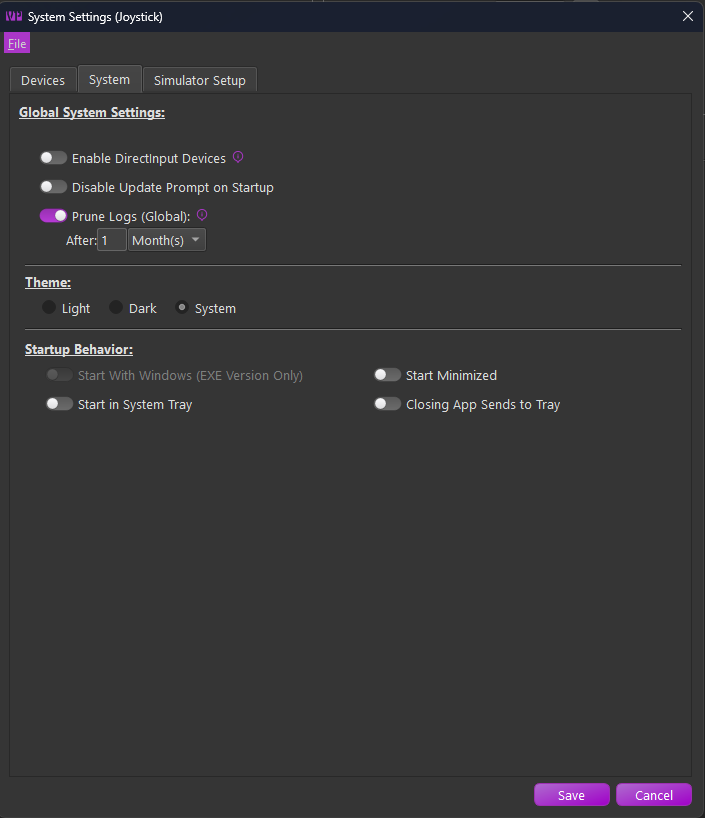
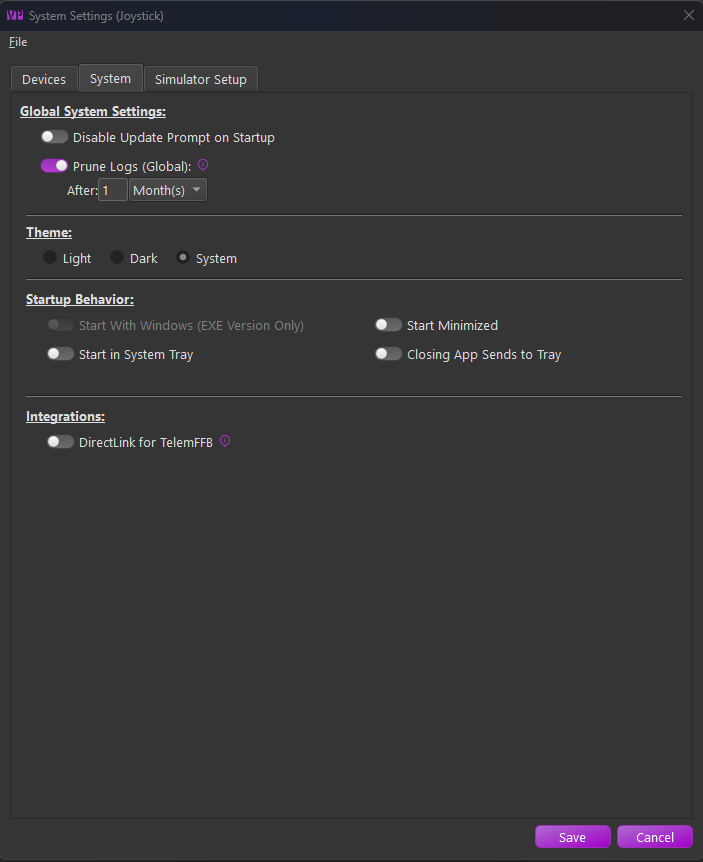
docs(telemffb): the DirectLink toggle moves to an Integrations section
The settings reference mirrors the System tab's own sections, so the
entry moves with the switch: out of Global System Settings and into an
Integrations section of its own, after Startup Behavior.  Retitled
"DirectLink for TelemFFB" to match, and the screenshot retaken.

Nothing linked to the old #enable-directinput-devices anchor, so the
move needs no redirect.

The entry drops the beta expiry it used to mention.  Beta builds are
handed to a few people directly and told what they are; documenting a
fuse that disappears at release describes a limitation the product does
not have.

diff --git a/docs/changelog.md b/docs/changelog.md
@@ -3,7 +3,7 @@
 
     - Added **[The DirectInput Tap](telemffb/dinput-tap.md)** - a new page covering the game-side capture wrapper for DCS, IL-2, and Falcon BMS: what it does, per-sim setup from System Settings, the **Game Managed (DirectInput Tap)** spring modes (including IL-2 Korea's FFB pedals), per-effect-type toggles and gains for the game's own effects, the start-order rule, misconfiguration warnings, the configuration file, and updates/removal
     - Documented **[multiple joysticks and per-aircraft device selection](telemffb/devices-instances.md#multiple-joysticks-msfs-x-plane)** for MSFS and X-Plane: alternate device rows on the joystick card, the primary marker, live switching at save, and the per-aircraft **Device** section
-    - Updated [System Settings](telemffb/configuration.md) for the reduced restart requirements (most changes now apply live; a restart is prompted only for master-device, auto-launch, or theme changes) and the **Enable DirectInput Devices** toggle with its DirectLink status line
+    - Updated [System Settings](telemffb/configuration.md) for the reduced restart requirements (most changes now apply live; a restart is prompted only for master-device, auto-launch, or theme changes) and the DirectLink integration toggle with its status line
     - Added DirectInput Tap cross-references and the tap spring mode to the [DCS](telemffb/sim-dcs.md), [IL-2](telemffb/sim-il2.md) (including Korea pedal FFB), and [BMS](telemffb/sim-bms.md) guides
     - Documented the System Settings [File menu](telemffb/configuration.md#import-export-and-reset) - settings export/import for backup and machine migration, and Reset to Defaults, none of which commit until Save
     - Rewrote [System Settings](telemffb/configuration.md) for the reorganized dialog - three tabs (Devices / System / Simulator Setup), the per-device Device Settings panels that replace the retired Startup Behavior page, the now-global update prompt setting, and the master-only dialog that configures every instance - with matching updates to [Devices & Instances](telemffb/devices-instances.md) (device cards carry the launch controls), the Quick Start, and [Connecting Your Simulator](telemffb/sim-setup.md)

diff --git a/docs/telemffb/configuration.md b/docs/telemffb/configuration.md
@@ -84,10 +84,6 @@ Below the cards, the **Device Settings** area has one tab per configured device.
 
     - Suppress the new-update prompt at startup. The master instance performs the update check, so this is a global setting.
 
-- **Enable DirectInput Devices**
-
-    - List generic DirectInput force-feedback devices (shown with a `[DI]` prefix) alongside VPforce hardware in the device selectors. Requires **DirectLink for TelemFFB**, distributed separately; a status line below the toggle reports the installed DirectLink version. Most VPforce users can leave this off; it exists to drive non-VPforce hardware.
-
 ### Startup Behavior
 
 - **Start with Windows**
@@ -111,6 +107,12 @@ Below the cards, the **Device Settings** area has one tab per configured device.
 - **Closing App Sends to Tray**
 
     - The window close button minimizes the application to the system tray instead of exiting. Exit TelemFFB from the System menu or from the tray icon's right-click context menu.
+
+### Integrations
+
+- **DirectLink for TelemFFB**
+
+    - List DirectInput Force Feedback devices (shown with a `[DI]` prefix) alongside VPforce hardware in the device selectors, so they can be assigned to any role. Requires **DirectLink**, a separate product distributed on its own; a status line below the toggle reports the installed version. Most VPforce users can leave this off - it exists to drive non-VPforce hardware.
 
 ## Simulator Setup Tab
 
